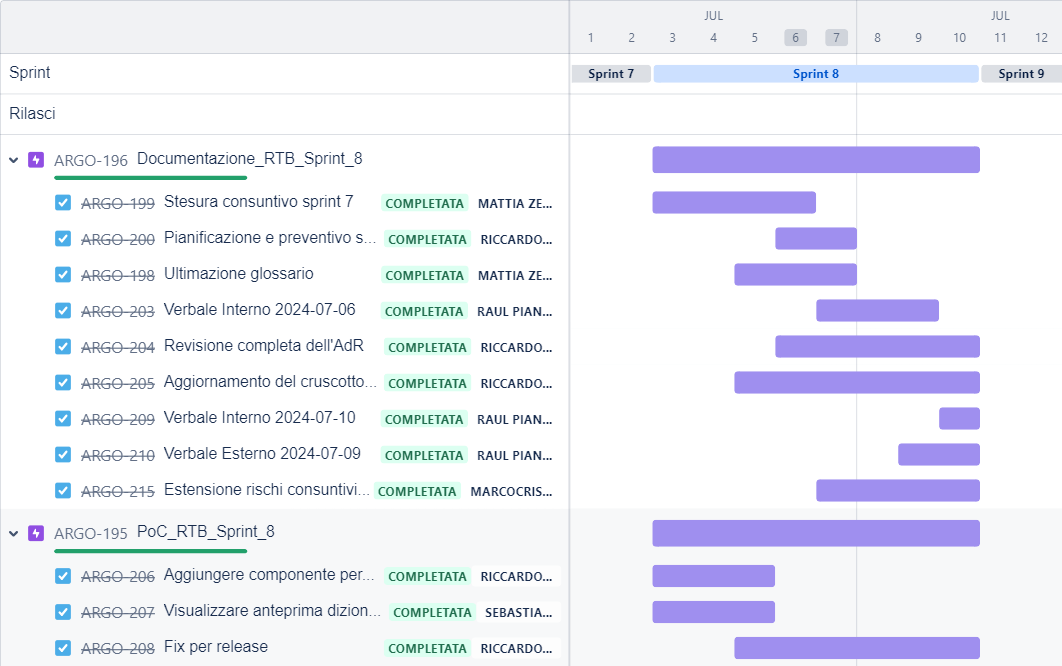
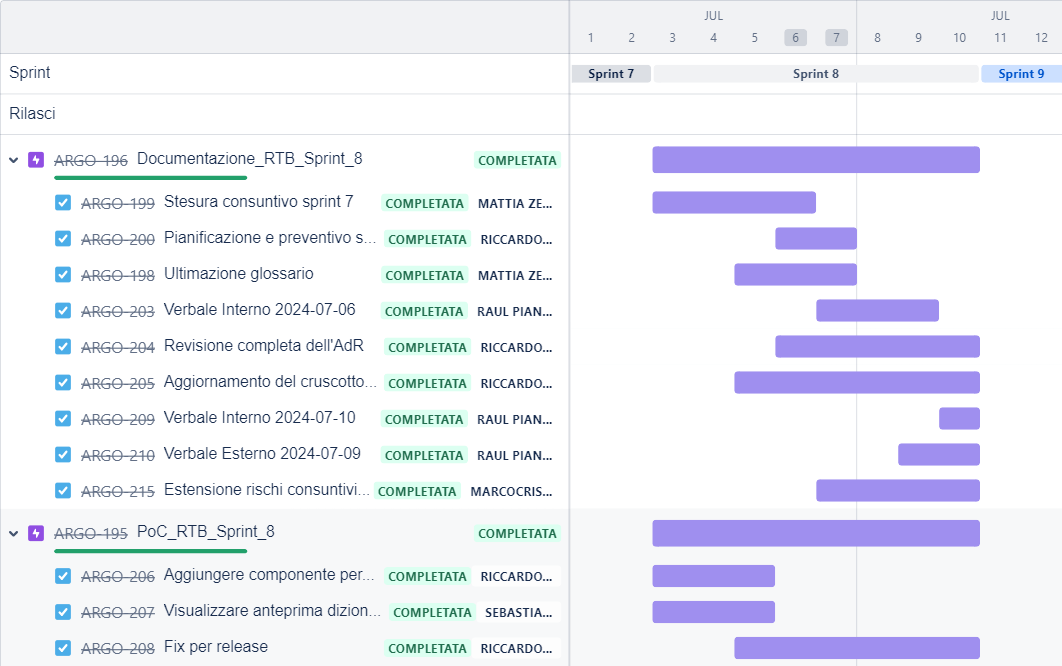
aggiunto gantt sprint 9

Changed region(s): [[0.5904, 0.0901, 1.0, 0.1502], [0.435, 0.2102, 0.5282, 0.2703], [0.435, 0.7808, 0.5282, 0.8108]]

diff --git a/sources/documents/2_RTB/PianoDiProgetto/Pianificazione/Sprint/sprint-9.tex b/sources/documents/2_RTB/PianoDiProgetto/Pianificazione/Sprint/sprint-9.tex
@@ -17,5 +17,9 @@
   \item Inizio stesura Specifica tecnica.
 \end{itemize}
 
-\vspace{0.5\baselineskip}
-\par [Inserire Gantt]
+\begin{figure}[H]
+  \centering
+  \includegraphics[width=0.90\textwidth]{assets/Pianificazione/Sprint-9/gantt.png}
+  \caption{Sprint 9 - Diagramma di Gantt}\label{fig:sprint-9-gantt}
+\end{figure}
+
